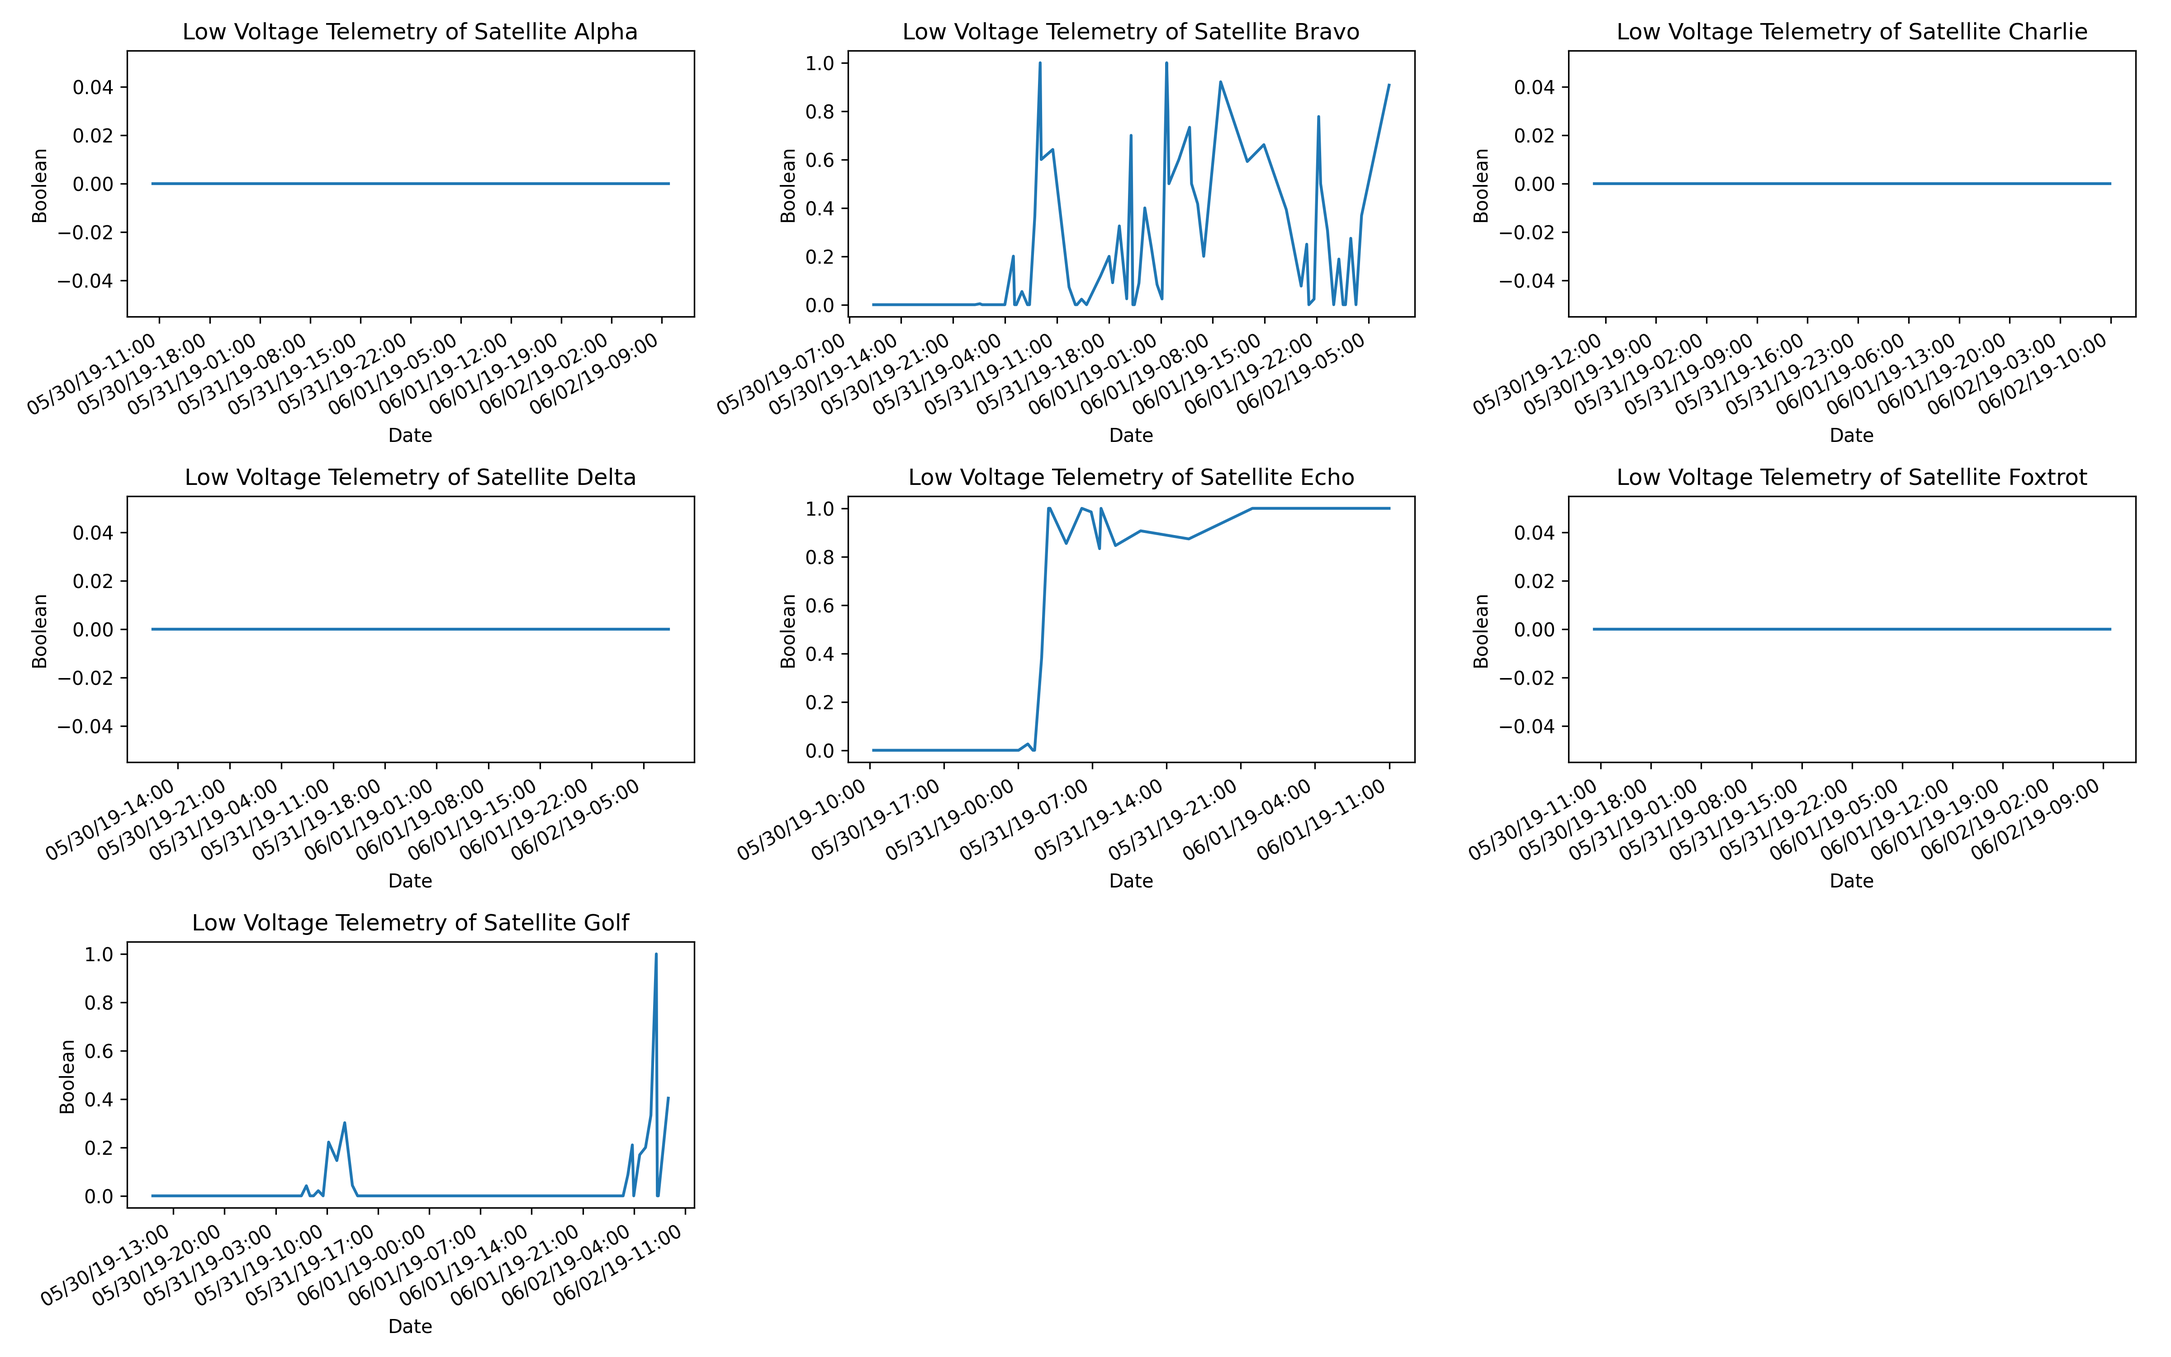
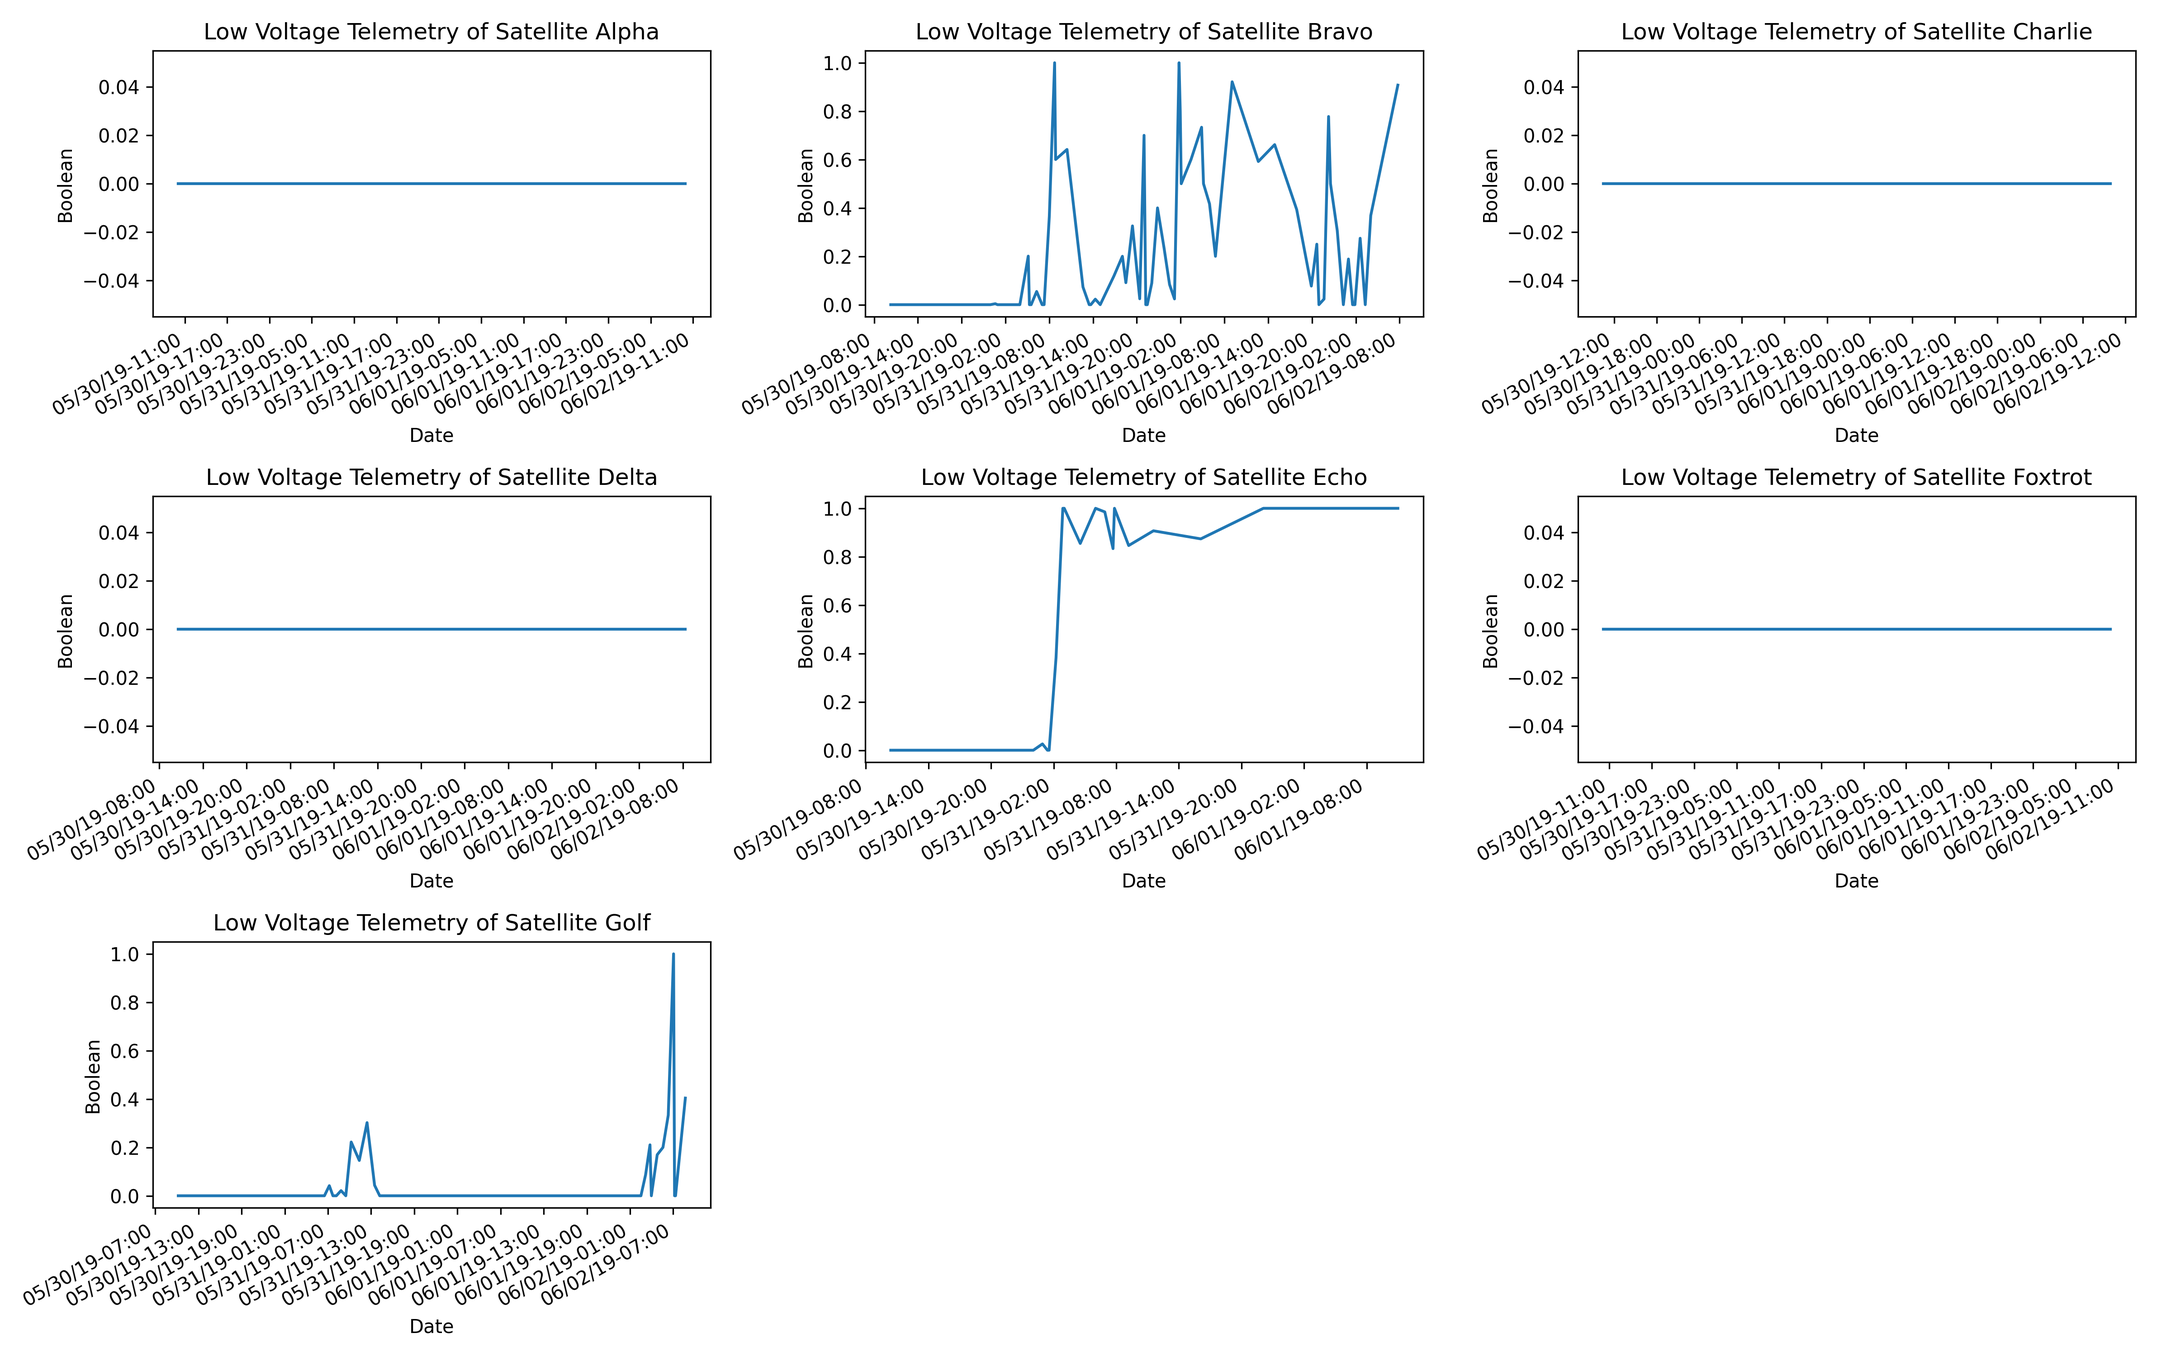
Last Step

diff --git a/main.py b/main.py
@@ -1,9 +1,13 @@
-"""
 
-# import the 7 csv files into pandas dataframes"""
 import pandas as pd
 import matplotlib.dates as mdates
 import matplotlib.pyplot as plt
+import time
+
+
+
+start_time = time.time()
+# import the 7 csv files into pandas dataframes
 df_alpha = pd.read_csv('alpha.csv')
 df_bravo = pd.read_csv('bravo.csv')
 df_charlie = pd.read_csv('charlie.csv')
@@ -12,18 +16,22 @@ df_echo = pd.read_csv('echo.csv')
 df_foxtrot = pd.read_csv('foxtrot.csv')
 df_golf = pd.read_csv('golf.csv')
 
+
+# These lists are used in the functions later on.
 dataframes = [df_alpha, df_bravo, df_charlie, df_delta, df_echo, df_foxtrot, df_golf]
 satellite_names = ['Alpha', 'Bravo', 'Charlie', 'Delta', 'Echo', 'Foxtrot', 'Golf']
 telemetry_channels = ['gyro_x','gyro_y','gyro_z','wheel_s','wheel_x','wheel_y','wheel_z','low_voltage','bus_voltage']
-Y_title = ['Gyro_x in deg/s','Gyro_y in deg/s','Gyro_z in deg/s','Wheel 1 in rpm','Wheel 2 in rpm','Wheel 3 in rpm','Wheel 4 in rpm','Low Voltage ' , 'Bus Voltage in Volts']
+Y_title = ['Gyro_x in deg/s','Gyro_y in deg/s','Gyro_z in deg/s','Wheel 1 in rpm','Wheel 2 in rpm'
+          ,'Wheel 3 in rpm','Wheel 4 in rpm','Low Voltage ' , 'Bus Voltage in Volts']
 
 
 
-def computeCriticalValues(dataframe=dataframes, subset_name='Insert String' , subset_name2 = 'Insert String'):
+def computeCriticalValues(dataframe, subset_name='Insert String' , subset_name2=''):
     criticalvalues = list()
     gyroratespositive = list()
     gyroratesnegative = list()
-
+    # This function takes a string / in this case telemtry channel as input
+    # and then computes the critical values for this telemtry channel for each satellite
     if subset_name in ["wheel_s", "wheel_x", "wheel_y", "wheel_z"]:
         for dataframe in dataframes:
             dataframe1 = dataframe[[subset_name]]
@@ -44,7 +52,9 @@ def computeCriticalValues(dataframe=dataframes, subset_name='Insert String' , su
             z = (y * 100) / x  # Formula to calculate the percentage of points in which condition is true
 
             criticalvalues.append(z)
+
     elif subset_name in ["gyro_x", "gyro_y", "gyro_z"]:
+    # Here we have to be careful, I think it is required to include -2 degs aswell.
         for dataframe in dataframes:
             dataframe1 = dataframe[[subset_name]]
             dataframe1 = dataframe1.dropna(subset=[subset_name])
@@ -74,6 +84,8 @@ def computeCriticalValues(dataframe=dataframes, subset_name='Insert String' , su
 
 
 def showOurCriticalValues():
+    # with our returned list of Critical Values this function, combines all the crit. values
+    # for wheels and gyros together in an average and also prints out our wanted percentage
     wheelsall = computeCriticalValues(dataframes,"wheel_s")
     wheelxall = computeCriticalValues(dataframes,"wheel_x")
     wheelyall = computeCriticalValues(dataframes,"wheel_y")
@@ -83,8 +95,7 @@ def showOurCriticalValues():
     gyroy = computeCriticalValues(dataframes, 'gyro_y')
     gyroz = computeCriticalValues(dataframes, 'gyro_z')
 
-    #Simple nested loop to compute the average for all wheels combined for each satellite
-    #TODO make this better , this looks awful ..maybe insert in function?
+    #Simple nested loop to compute the average for all wheels + gyros combined for each satellite
     resultwheels = []
     resultgyros = []
     for i in range(len(wheelsall)):
@@ -108,17 +119,22 @@ def showOurCriticalValues():
 
 
 def plot_gyro_foreach(dataframes, satellite_names):
+    # Our function for plotting the 3 Gyros for each satellite in a single page
     fig, axs = plt.subplots(nrows=3, ncols=3, figsize=(12, 8))
     for i, df in enumerate(dataframes):
+        # Selecting our wanted cols and also dropping NaN values.
         df = df[['timestamp', 'gyro_x', 'gyro_y', 'gyro_z']]
         df = df.dropna(subset=['gyro_x', 'gyro_y', 'gyro_z'])
+        # grouping data and calculating mean of these groups.
+        # reducing the points to plot to  about ~ 70 points which makes the
+        # graph smooth and presentable. Same method is used in most of the other plots too, except for beta dun deg.
         df = df.groupby(df.index // 10000).mean()
         df.insert(0, 'datum', pd.to_datetime(df['timestamp'], unit='ms'))
         df = df[['datum', 'gyro_x', 'gyro_y', 'gyro_z']]
         if not df.empty:
             df.plot(x='datum', y=['gyro_x', 'gyro_y', 'gyro_z'], ax=axs[i//3, i%3])
             axs[i//3, i%3].legend(fontsize=7)
-            hourly = mdates.HourLocator(interval=5)
+            hourly = mdates.HourLocator(interval=6) #X-Ticks set to every 6 hours
             axs[i//3, i%3].xaxis.set_major_formatter(mdates.DateFormatter('%D-%H:%M'))
             axs[i//3, i%3].set_title('Gyro Telemetry of Satellite ' + satellite_names[i])
             axs[i//3, i%3].set_xlabel('Date')
@@ -131,16 +147,20 @@ def plot_gyro_foreach(dataframes, satellite_names):
                 y_ticks = [-0.75,-0.5,-0.25,0,0.25,0.5,0.75] #Issue was, that_yticks was being modified within the loop and the change affects all plots after the third plot
                 axs[i // 3, i % 3].yaxis.set_ticks(y_ticks)
         else:
+            # removing unused plots
             axs[i//3, i%3].set_visible(False)
     fig.tight_layout()
     for j in range(len(dataframes), 9):
         axs[j//3, j%3].set_visible(False)
 
-    plt.show()
+    #plt.show()
     fig.savefig('GyroValuesForEach.png', dpi=300)
 
 
 def plot_wheel_foreach(dataframes, satellite_names):
+    # Same procedure as above
+    # I divided all wanted telemtry channels into different functions to reduce compute time
+    # Also you can just simply call the function for your wanted tel channel.
     fig, axs = plt.subplots(nrows=3, ncols=3, figsize=(16, 10))
     for i, df in enumerate(dataframes):
         df = df[['timestamp', 'wheel_s', 'wheel_x', 'wheel_y', 'wheel_z']]
@@ -154,7 +174,9 @@ def plot_wheel_foreach(dataframes, satellite_names):
                 axs[i // 3, i % 3].legend(fontsize=7)
             else:
                 axs[i // 3, i % 3].get_legend().remove()
-            hourly = mdates.HourLocator(interval=7)
+            hourly = mdates.HourLocator(interval=6)
+            #The expression i // 3 is used to calculate the row index of the current subplot, while i % 3 is used to calculate the column index of the current subplot.
+            # This is necessary because the subplots are arranged in a grid with 3 rows and 3 columns, and the i index is used to iterate over the different satellite datasets.
             axs[i // 3, i % 3].xaxis.set_major_locator(hourly)
             axs[i // 3, i % 3].xaxis.set_major_formatter(mdates.DateFormatter('%D-%H:%M'))
             axs[i // 3, i % 3].set_title('Wheel Telemetry of Satellite ' + satellite_names[i])
@@ -166,10 +188,11 @@ def plot_wheel_foreach(dataframes, satellite_names):
     fig.tight_layout()
     for j in range(len(dataframes), 9):
         axs[j // 3, j % 3].set_visible(False)
-    plt.show()
+    #plt.show()
     fig.savefig('WheelValuesForEach.png' , dpi = 300)
 
 def plot_busvoltage_foreach(dataframes, satellite_names):
+    # Same as above
     fig, axs = plt.subplots(nrows=3, ncols=3, figsize=(16, 10))
     for i, df in enumerate(dataframes):
         df = df[['timestamp', 'bus_voltage']]
@@ -179,7 +202,7 @@ def plot_busvoltage_foreach(dataframes, satellite_names):
         df = df[['datum','bus_voltage']]
         if not df.empty:
             df.plot(x='datum', y='bus_voltage', ax=axs[i // 3, i % 3])
-            hourly = mdates.HourLocator(interval=7)
+            hourly = mdates.HourLocator(interval=6)
             axs[i // 3, i % 3].xaxis.set_major_locator(hourly)
             axs[i // 3, i % 3].xaxis.set_major_formatter(mdates.DateFormatter('%D-%H:%M'))
             axs[i // 3, i % 3].set_title('Bus Voltage Telemetry of Satellite ' + satellite_names[i])
@@ -192,10 +215,11 @@ def plot_busvoltage_foreach(dataframes, satellite_names):
     fig.tight_layout()
     for j in range(len(dataframes), 9):
         axs[j // 3, j % 3].set_visible(False)
-    plt.show()
+    #plt.show()
     fig.savefig('BusVoltageValuesForEach.png', dpi=300)
 
 def plot_lowvoltage_foreach(dataframes, satellite_names):
+    # Same as above
     fig, axs = plt.subplots(nrows=3, ncols=3, figsize=(16, 10))
     for i, df in enumerate(dataframes):
         df = df[['timestamp', 'low_voltage']]
@@ -205,7 +229,7 @@ def plot_lowvoltage_foreach(dataframes, satellite_names):
         df = df[['datum','low_voltage']]
         if not df.empty:
             df.plot(x='datum', y='low_voltage', ax=axs[i // 3, i % 3])
-            hourly = mdates.HourLocator(interval=7)
+            hourly = mdates.HourLocator(interval=6)
             axs[i // 3, i % 3].xaxis.set_major_locator(hourly)
             axs[i // 3, i % 3].xaxis.set_major_formatter(mdates.DateFormatter('%D-%H:%M'))
             axs[i // 3, i % 3].set_title('Low Voltage Telemetry of Satellite ' + satellite_names[i])
@@ -218,51 +242,60 @@ def plot_lowvoltage_foreach(dataframes, satellite_names):
     fig.tight_layout()
     for j in range(len(dataframes), 9):
         axs[j // 3, j % 3].set_visible(False)
-    plt.show()
+    #plt.show()
     fig.savefig('LowVoltageValuesForEach.png', dpi=300)
 
 def plotvaluesforall(dataframes=dataframes, subset_names=telemetry_channels, y_titles=Y_title, sample_size=10000):
+
+    # Calculating how many cols and rows are needed, can differ because of more telem. channels
     n_plots = len(subset_names)
     n_cols = 3
     n_rows = (n_plots + n_cols - 1) // n_cols
 
     fig, axs = plt.subplots(nrows=n_rows, ncols=n_cols, figsize=(16, 10))
-
+    #Edit this or put it inside params of function if there are more satellites to analyze in the future
     colors = ['red', 'blue', 'green', 'yellow', 'orange', 'purple', 'pink', 'black']
     labels = ['Alpha', 'Bravo', 'Charlie', "Delta", 'Echo', 'Foxtrot', 'Golf']
 
     for i, subset_name in enumerate(subset_names):
-        row, col = divmod(i, n_cols)
+        row, col = divmod(i, n_cols) #The divmod function is used to calculate the row and column indices for the current plot
+        # based on the index i and the number of columns n_cols. The divmod function returns a tuple of two values: the quotient and the remainder
+        # of the division of the two inputs. In this case,
+        # divmod(i, n_cols) calculates the row and column indices for the plot, and those values are assigned to the variables row and col.
         ax = axs[row, col]
 
         for index, dataframe in enumerate(dataframes):
             dataframe = dataframe.dropna(subset=[subset_name])
             dataframe = dataframe[['timestamp', subset_name]]
             dataframe = dataframe.groupby(dataframe.index // sample_size).mean()
+            # Inserting a converted date column from the unix timestamps
             dataframe.insert(0, "datum", pd.to_datetime(dataframe['timestamp'], unit='ms'))
             dataframe.plot(x = 'datum', y=subset_name, ax=ax, label=labels[index], color=colors[index])
 
         ax.set(xlabel='Time', ylabel=y_titles[i], title=f"{y_titles[i]} over time, sample size: {sample_size}")
         ax.legend(fontsize = 5)
+        # Customizing xticks and intervals. I chose every 6 hours.
         ax.xaxis.set_major_formatter(mdates.DateFormatter('%D-%H:%M'))
-        hourly = mdates.HourLocator(interval=5)
+        hourly = mdates.HourLocator(interval=6)
         ax.xaxis.set_major_locator(hourly)
         ax.tick_params(axis='both', which='major', labelsize=7)
         ax.tick_params(axis='both', which='minor', labelsize=6)
 
-    # remove any unused subplots
+    # Removing any unused subplots at the end
     for i in range(n_plots, n_cols * n_rows):
         row, col = divmod(i, n_cols)
         axs[row, col].set_visible(False)
 
     plt.tight_layout()
-    plt.show()
+    #plt.show()
     fig.savefig('AllValuesforAll.png', dpi=300)
 
 
 
 def detect_anomaly(subset_name = 'alpha', searchvalue = 'low_voltage' ):
     df = pd.read_csv(f"{subset_name}.csv")
+
+    # Searching if there's a low voltage alarm in the measured time.
     if searchvalue == 'low_voltage':
         df = df[[searchvalue]]
         df = df.dropna(subset=[searchvalue])
@@ -270,6 +303,8 @@ def detect_anomaly(subset_name = 'alpha', searchvalue = 'low_voltage' ):
             return True
         else:
             return False
+    # With bus voltage as search parameter we can see if the voltage is or has
+    # dropped to 0
     elif searchvalue == 'bus_voltage':
         df = df[[searchvalue]]
         df = df.dropna(subset=[searchvalue])
@@ -277,6 +312,7 @@ def detect_anomaly(subset_name = 'alpha', searchvalue = 'low_voltage' ):
             return True
         else:
             return False
+    # Testing if wheel has failed or just standing still
     elif searchvalue in ['wheel_s' ,'wheel_x','wheel_y','wheel_z']:
         df = df[[searchvalue]]
         df = df.dropna(subset=[searchvalue])
@@ -288,29 +324,63 @@ def detect_anomaly(subset_name = 'alpha', searchvalue = 'low_voltage' ):
             return False
 
 
-
 def plotbetaforAll():
+
     df = pd.read_csv('beta_sun_deg.csv')
     df['date'] = pd.to_datetime(df['date'], format='%m/%d/%Y')
-    fig, ax = plt.subplots(figsize=(9,9))
-    df.plot(x='date', y=['alpha', 'bravo', 'charlie', 'delta', 'echo', 'foxtrot', 'golf'], ax=ax)
+    # Custom Linestyle and markes for each graph
+    markers = ['o', '^', 's', 'd', 'v', 'd', 'p']
+    linestyles = ['-', '--', '-.', ':', '-', '-.', '--']
+    markevery_values = [[50,150, 250, 350], [60,120, 240, 360], [50,100, 180, 260], [70,130, 260, 320], [40,90, 170, 250],
+                        [50,120, 220, 320], [80, 140, 200,310]]
+    colors = ['red', 'blue', 'green', 'gray', 'orange', 'purple', 'pink', 'black']
+    # Making satellite graphs with the same beta sun degree
+    # visible with markers so we can identify which satellite is in which flock
+    fig, ax = plt.subplots(figsize=(12, 9))
+
+    for i, col in enumerate(['alpha', 'bravo', 'charlie', 'delta', 'echo', 'foxtrot', 'golf']):
+        df.plot(x='date', y=col, ax=ax, marker=markers[i], linestyle=linestyles[i], label=col , markevery = markevery_values[i] , color = colors[i],
+                markersize = 7)
 
     ax.legend()
     ax.set_xlabel('Date')
     ax.set_ylabel('Beta Sun Degree in Deg')
-    # Set xTicks to every 30 days
+    # Setting xTicks to every 30 days here
     ax.xaxis.set_major_locator(mdates.MonthLocator(interval=1))
     ax.xaxis.set_major_formatter(mdates.DateFormatter('%m/%d/%Y'))
     ax.xaxis.set_ticks([df['date'].min()] + ax.get_xticks().tolist())
+    ax.set_title('Beta Sun Degree over Time')
+    # Rotating x axis dates
     plt.setp(ax.get_xticklabels(), rotation=30, ha='right')
-    plt.show()
+    plt.grid('on')
+    #plt.show()
     fig.savefig('BetaAngleForAll.png', dpi=300)
-plotbetaforAll()
 
-
-"""showOurCriticalValues()
-plot_busvoltage_foreach(dataframes,satellite_names)
-plotvaluesforall(dataframes, telemetry_channels, Y_title, sample_size=12000)
+# Note: I commented out plt.show() on functions to measure runtime like asked.
+#================================== First Question =========================================================================
+# All the telemetry channels of each satellite in a single page (all gyros and wheels together)
 plot_gyro_foreach(dataframes,satellite_names)
 plot_wheel_foreach(dataframes, satellite_names)
-plot_lowvoltage_foreach(dataframes,satellite_names)"""
+plot_lowvoltage_foreach(dataframes,satellite_names)
+plot_busvoltage_foreach(dataframes,satellite_names)
+first_end_time = time.time()
+first_total_time = first_end_time - start_time
+print(f"Runtime: for Question 1 a): {first_total_time:,.2f} seconds")
+#All the telemetry channels of all the satellites combined in a single page
+plotvaluesforall(dataframes, telemetry_channels, Y_title, sample_size=12000)
+second_end_time = time.time()
+second_total_time = second_end_time - first_end_time
+print(f"Runtime: for Question 1 b): {second_total_time:,.2f} seconds")
+#The beta angle of all the satellites, combined in a single graph
+plotbetaforAll()
+third_end_time = time.time()
+third_total_time = third_end_time - second_end_time
+print(f"Runtime: for Question 1 c): {third_total_time:,.2f} seconds")
+#================================== Second Question =========================================================================
+showOurCriticalValues()
+fourth_end_time = time.time()
+fourth_total_time = fourth_end_time - third_end_time
+print(f"Runtime: for Question 2): {fourth_total_time:,.2f} seconds")
+end_time = time.time()
+total_time = end_time - start_time
+print(f"Total runtime: {total_time:,.2f} seconds")
